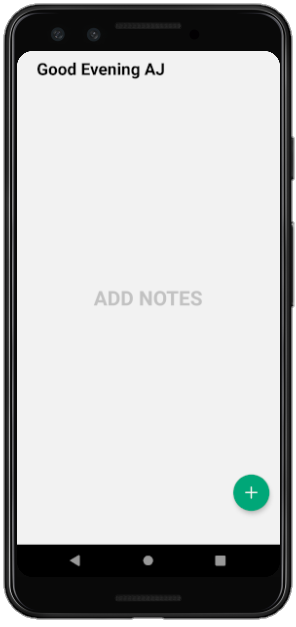
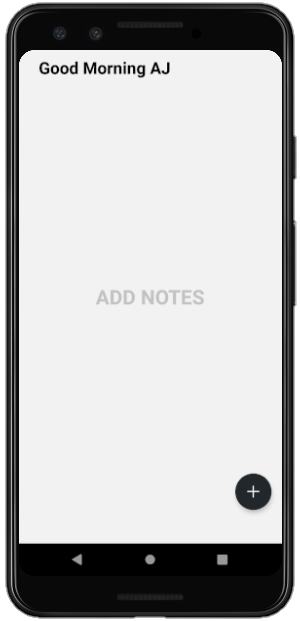
Update v2

diff --git a/app/components/Note.js b/app/components/Note.js
@@ -18,7 +18,7 @@ const width = Dimensions.get('window').width - 40;
 
 const styles = StyleSheet.create({
     container: {
-        backgroundColor: colors.PRIMARY,
+        backgroundColor: colors.DARK_BG,
         width: width / 2 - 10,
         padding: 8,
         borderRadius: 10,
@@ -36,10 +36,13 @@ const styles = StyleSheet.create({
     },
     title: {
         fontWeight: 'bold',
-        fontSize: 17,
+        fontSize: 18,
+        color: colors.PRIMARY,
+    },
+    desc: {
+        fontSize: 15,
         color: colors.LIGHT,
     },
-    desc: {},
 });
 
 

diff --git a/app/components/SearchBar.js b/app/components/SearchBar.js
@@ -24,11 +24,12 @@ const SearchBar = ({containerStyle, value, onChangeText, onClear}) => {
 }; 
 
 const styles = StyleSheet.create({
+    
     searchBar: {
         borderWidth: 1,
-        borderColor: colors.PRIMARY,
+        borderColor: colors.DARK,
         height:40,
-        borderRadius:40,
+        borderRadius:10,
         paddingLeft:10,
         fontSize: 16,
         

diff --git a/app/components/RoundIconBtn.js b/app/components/RoundIconBtn.js
@@ -21,7 +21,7 @@ const RoundIconBtn = ({antIconName, size, color, style, onPress}) => {
 
 const styles = StyleSheet.create({
     icon: {
-        backgroundColor: colors.PRIMARY,
+        backgroundColor: colors.DARK_BG,
         padding: 15,
         borderRadius: 50,
         elevation: 5,

diff --git a/app/components/NoteDetail.js b/app/components/NoteDetail.js
@@ -121,9 +121,11 @@ const NoteDetail = (props) => {
 
 
 const styles = StyleSheet.create({
+    
     container: {
         // flex:1,
         paddingHorizontal: 15,
+        // backgroundColor:colors.DARK_BG,
     },
     time: {
         textAlign: 'right',

diff --git a/app/components/NoteInputModal.js b/app/components/NoteInputModal.js
@@ -101,7 +101,7 @@ const styles = StyleSheet.create({
     },
     input: {
         borderBottomWidth:2,
-        borderBottomColor: colors.PRIMARY,
+        borderBottomColor: colors.DARK_BG,
         fontSize:20,
         color:colors.DARK,
     },

diff --git a/app/screens/Intro.js b/app/screens/Intro.js
@@ -53,7 +53,7 @@ const styles = StyleSheet.create({
     },
     textInput: {
         borderWidth: 2,
-        borderColor: colors.PRIMARY,
+        borderColor: colors.DARK_BG,
         color:colors.PRIMARY,
         width,
         height: 40,

diff --git a/app/misc/colors.js b/app/misc/colors.js
@@ -1,5 +1,6 @@
 export default {
         
+        DARK_BG    : '#242729',
         DARK    : '#444853',
         LIGHT   : '#FFF',
         PRIMARY : '#00A779',

diff --git a/README.md b/README.md
@@ -67,6 +67,12 @@ This Project  is about **Notes** . User can **Create, Read, Update & Delete** No
     <img src="img\Search.png" alt="Search" width="200px" >
 </p>
 
+- if serch results are not available then user get this.
+
+<p align="center">
+    <img src="img\Search_not_found.png" alt="Search" width="200px" >
+</p>
+
 - Notes can be seen by just clicking on them, on this screen user can see the Note and also on which date that notes was **Created or Updated details**. also user can **Edit or Delete** Note from Here
 
 <p align="center">
@@ -94,8 +100,7 @@ This Project  is about **Notes** . User can **Create, Read, Update & Delete** No
 
 <br/>
 
-* <img align="left" alt="ReactNative" width="26px" src="https://raw.githubusercontent.com/github/explore/80688e429a7d4ef2fca1e82350fe8e3517d3494d/topics/react/react.png" />&nbsp;  **React Native**
-
+* <img align="left" alt="Async Storage" width="26px" src="img\react-native.png" />&nbsp;  **React Native**
 <br/>
 
 * <img align="left" alt="Async Storage" width="26px" src="img\database.png" />&nbsp;  **Async Storage**
